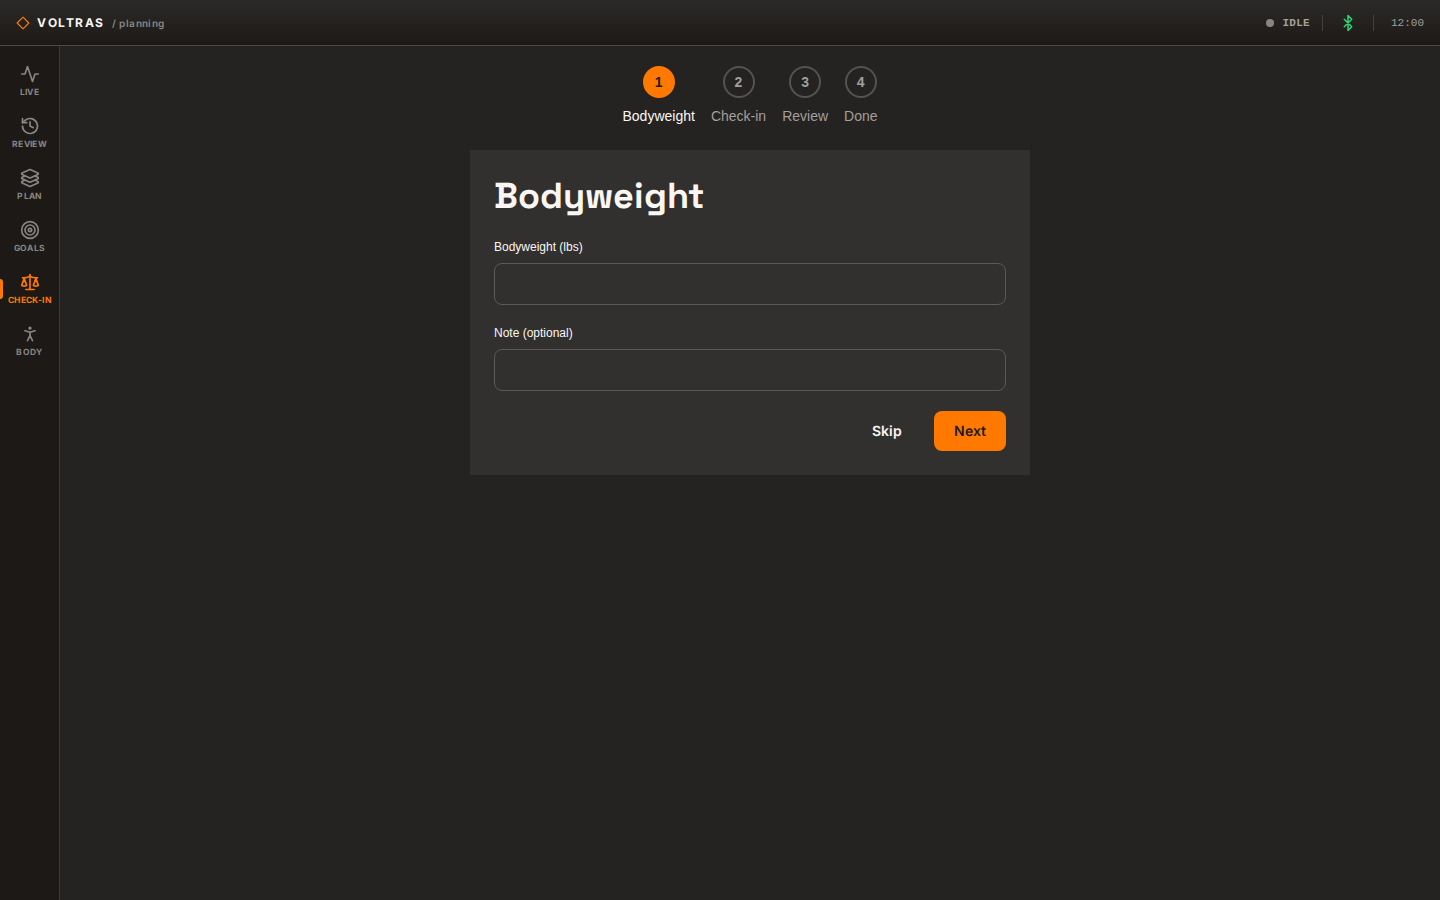
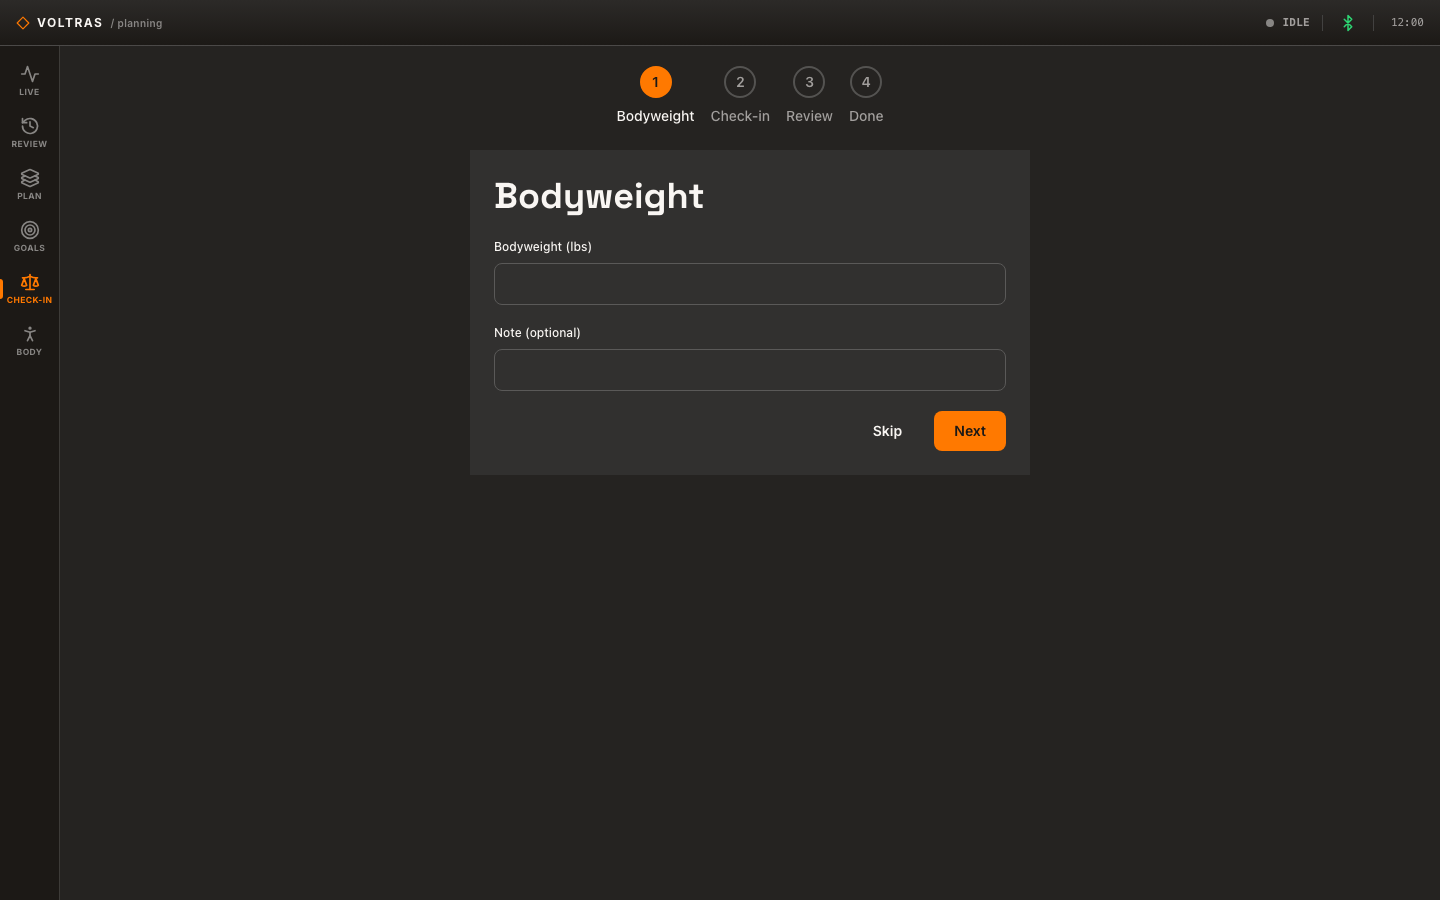
Refresh macOS stills for the six-entry rail
The published PNGs predated the Check-in rail item (#678); only the Linux
baselines were refreshed then. Regenerated on macOS with
CAPTURES_ALLOW_LOCAL=1 from synthetic scenarios. Also name the body page's
"Last trained" side-sheet line in the dashboard pages reference.

Claude-Session: https://claude.ai/code/session_01HyCJN3tqSYBVbZcKszqSt3

diff --git a/site/reference/dashboard-pages.md b/site/reference/dashboard-pages.md
@@ -77,7 +77,8 @@ writes through an allowlisted MCP tool (`profile.log_bodyweight`,
 `profile.log_weekly_checkin`, `goal.weekly_review`); nothing on the page calls Claude.
 
 **Body (`#/body`), coming soon.** Weekly sets per muscle against volume landmarks, a strength
-trend per muscle, and planned against done for the current week. It has only been shown on
+trend per muscle, and planned against done for the current week. Pressing a muscle opens a
+side sheet whose "Last trained" line says when it was last worked. It has only been shown on
 seeded data so far. The landmarks are population defaults, not values fitted to you. Sets
 recorded against the mock adapter never count on this page.
 
@@ -86,16 +87,16 @@ recorded against the mock adapter never count on this page.
 Each row names the tools whose calls put something on a screen. The status word is the same
 one the table above gives for that route.
 
-| Screen             | Route       | Status                                 | What you see                                                                                                                          | Tools that put it there                                                                                                                                                                                                    |
-| ------------------ | ----------- | -------------------------------------- | ------------------------------------------------------------------------------------------------------------------------------------- | -------------------------------------------------------------------------------------------------------------------------------------------------------------------------------------------------------------------------- |
-| Live, during a set | `#/`        | Available                              | The device, the current set, velocity against the set's stop line, the fatigue card, the load, the prescription and its effort target | `device.connect`, `session.start`, `set.start` (or auto-arm on your own reps), `device.set_weight` for the load, `plan.attach_to_session` for the prescription and its RPE, `profile.set_training_background` for the tier |
-| Live, resting      | `#/`        | Available                              | The set you just finished with its effort target, its verdict, the rest ring and the pace footer                                      | `set.end`; the ring counts down the rest the attached plan sets for the lift, else a default                                                                                                                               |
-| Live, two devices  | `#/`        | Available                              | Left and right velocity on one chart                                                                                                  | `device.connect` once with `slot` set to `left` and once to `right`; `slot.bind` remembers each device's side                                                                                                              |
-| Session summary    | `#/summary` | Available                              | A fatigue verdict per exercise, form lights, the worst velocity loss and a progression recommendation                                 | `session.start`, `set.start` and `set.end` for the sets; `plan.program.create` and `plan.exercise.create` for the recommendation, which needs the exercise prescribed in the current program                               |
-| Plan builder       | `#/plan`    | Available                              | The exercise catalog and the workout editor                                                                                           | `plan.program.create`, `plan.template.create`, `plan.exercise.create`, `truecoach.import_week`, and the page's own edits                                                                                                   |
-| Check-in           | `#/checkin` | Available                              | Your bodyweight, three ratings for the week and the weekly bodyweight review, one step at a time                                      | The page's own taps, through `profile.log_bodyweight`, `profile.log_weekly_checkin` and `goal.weekly_review`; the review reads a bodyweight goal set with `goal.accept_target`                                             |
-| Goals              | `#/goals`   | [Coming soon](/coming-soon/goals-page) | Priorities with committed and stretch bands, the weekly trajectory, and bodyweight and attendance cards                               | `goal.declare_priorities`, `goal.propose_targets`, `goal.accept_target`, `set.end`, `profile.log_bodyweight`, `profile.set_diet_phase`                                                                                     |
-| Body               | `#/body`    | [Coming soon](/coming-soon/body-map)   | Weekly sets per muscle, a strength trend per muscle, and planned against done this week                                               | `set.end` on a real device, `session.set_exercise` to name the lift, `plan.exercise.create` for the week's planned sets, `profile.set_diet_phase`                                                                          |
+| Screen             | Route       | Status                                 | What you see                                                                                                                              | Tools that put it there                                                                                                                                                                                                    |
+| ------------------ | ----------- | -------------------------------------- | ----------------------------------------------------------------------------------------------------------------------------------------- | -------------------------------------------------------------------------------------------------------------------------------------------------------------------------------------------------------------------------- |
+| Live, during a set | `#/`        | Available                              | The device, the current set, velocity against the set's stop line, the fatigue card, the load, the prescription and its effort target     | `device.connect`, `session.start`, `set.start` (or auto-arm on your own reps), `device.set_weight` for the load, `plan.attach_to_session` for the prescription and its RPE, `profile.set_training_background` for the tier |
+| Live, resting      | `#/`        | Available                              | The set you just finished with its effort target, its verdict, the rest ring and the pace footer                                          | `set.end`; the ring counts down the rest the attached plan sets for the lift, else a default                                                                                                                               |
+| Live, two devices  | `#/`        | Available                              | Left and right velocity on one chart                                                                                                      | `device.connect` once with `slot` set to `left` and once to `right`; `slot.bind` remembers each device's side                                                                                                              |
+| Session summary    | `#/summary` | Available                              | A fatigue verdict per exercise, form lights, the worst velocity loss and a progression recommendation                                     | `session.start`, `set.start` and `set.end` for the sets; `plan.program.create` and `plan.exercise.create` for the recommendation, which needs the exercise prescribed in the current program                               |
+| Plan builder       | `#/plan`    | Available                              | The exercise catalog and the workout editor                                                                                               | `plan.program.create`, `plan.template.create`, `plan.exercise.create`, `truecoach.import_week`, and the page's own edits                                                                                                   |
+| Check-in           | `#/checkin` | Available                              | Your bodyweight, three ratings for the week and the weekly bodyweight review, one step at a time                                          | The page's own taps, through `profile.log_bodyweight`, `profile.log_weekly_checkin` and `goal.weekly_review`; the review reads a bodyweight goal set with `goal.accept_target`                                             |
+| Goals              | `#/goals`   | [Coming soon](/coming-soon/goals-page) | Priorities with committed and stretch bands, the weekly trajectory, and bodyweight and attendance cards                                   | `goal.declare_priorities`, `goal.propose_targets`, `goal.accept_target`, `set.end`, `profile.log_bodyweight`, `profile.set_diet_phase`                                                                                     |
+| Body               | `#/body`    | [Coming soon](/coming-soon/body-map)   | Weekly sets per muscle, a strength trend per muscle, planned against done this week, and a per-muscle sheet with when it was last trained | `set.end` on a real device, `session.set_exercise` to name the lift, `plan.exercise.create` for the week's planned sets, `profile.set_diet_phase`                                                                          |
 
 The `goal.*` tools are available today. The Coming soon label on the Goals row is about the
 page, not the tools.
